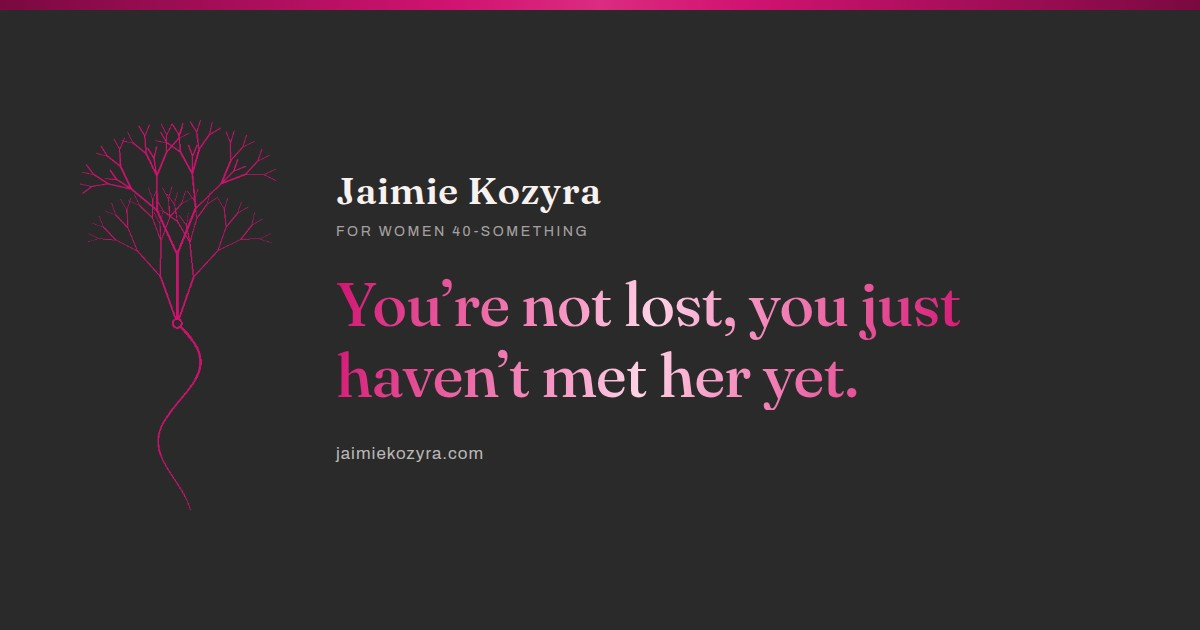
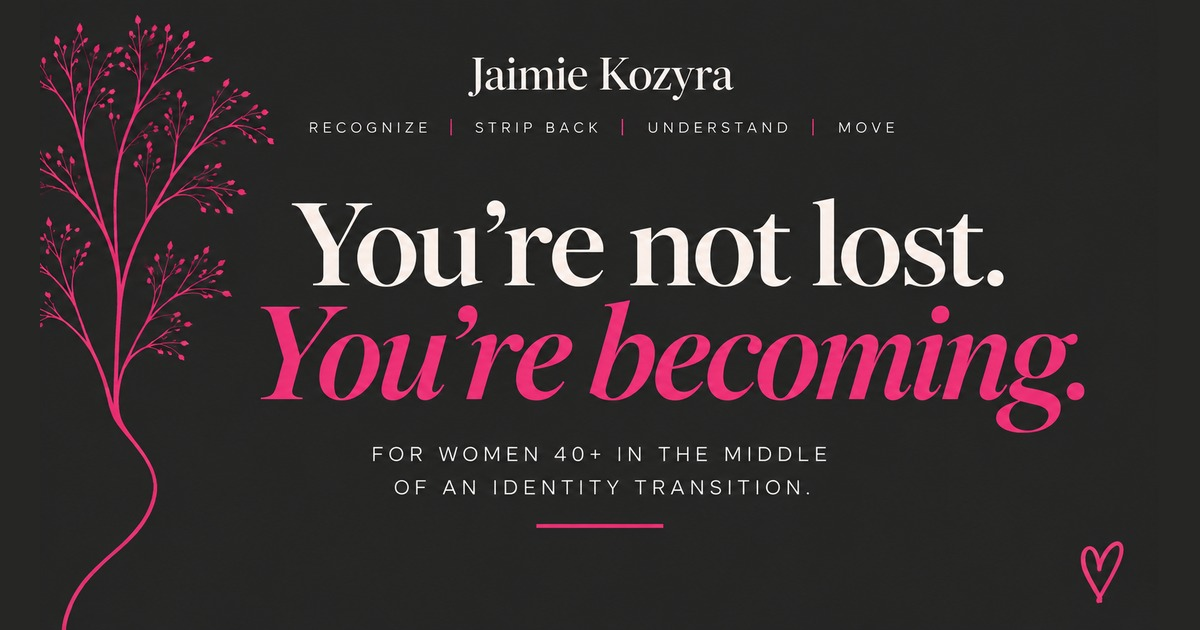
New link preview graphic
Her own artwork, fitted to 1200x630 on matching charcoal so nothing is
cropped. Alt text updated to the new line.

Claude-Session: https://claude.ai/code/session_019H7cMcYYSgfvxCfrsxMTCp

diff --git a/public/404.html b/public/404.html
@@ -14,7 +14,7 @@
 <meta property="og:image" content="https://jaimiekozyra.com/assets/og-card.jpg">
 <meta property="og:image:width" content="1200">
 <meta property="og:image:height" content="630">
-<meta property="og:image:alt" content="Jaimie Kozyra. You are not lost, you just have not met her yet.">
+<meta property="og:image:alt" content="Jaimie Kozyra. You are not lost. You are becoming.">
 <meta name="twitter:card" content="summary_large_image">
 <meta name="theme-color" content="#2A2A2A">
 <link rel="icon" href="assets/favicon-32.png" sizes="32x32">

diff --git a/public/about.html b/public/about.html
@@ -14,7 +14,7 @@
 <meta property="og:image" content="https://jaimiekozyra.com/assets/og-card.jpg">
 <meta property="og:image:width" content="1200">
 <meta property="og:image:height" content="630">
-<meta property="og:image:alt" content="Jaimie Kozyra. You are not lost, you just have not met her yet.">
+<meta property="og:image:alt" content="Jaimie Kozyra. You are not lost. You are becoming.">
 <meta name="twitter:card" content="summary_large_image">
 <meta name="theme-color" content="#2A2A2A">
 <link rel="icon" href="assets/favicon-32.png" sizes="32x32">

diff --git a/public/contact.html b/public/contact.html
@@ -14,7 +14,7 @@
 <meta property="og:image" content="https://jaimiekozyra.com/assets/og-card.jpg">
 <meta property="og:image:width" content="1200">
 <meta property="og:image:height" content="630">
-<meta property="og:image:alt" content="Jaimie Kozyra. You are not lost, you just have not met her yet.">
+<meta property="og:image:alt" content="Jaimie Kozyra. You are not lost. You are becoming.">
 <meta name="twitter:card" content="summary_large_image">
 <meta name="theme-color" content="#2A2A2A">
 <link rel="icon" href="assets/favicon-32.png" sizes="32x32">

diff --git a/public/index.html b/public/index.html
@@ -14,7 +14,7 @@
 <meta property="og:image" content="https://jaimiekozyra.com/assets/og-card.jpg">
 <meta property="og:image:width" content="1200">
 <meta property="og:image:height" content="630">
-<meta property="og:image:alt" content="Jaimie Kozyra. You are not lost, you just have not met her yet.">
+<meta property="og:image:alt" content="Jaimie Kozyra. You are not lost. You are becoming.">
 <meta name="twitter:card" content="summary_large_image">
 <meta name="theme-color" content="#2A2A2A">
 <link rel="icon" href="assets/favicon-32.png" sizes="32x32">

diff --git a/public/narrative-loom.html b/public/narrative-loom.html
@@ -14,7 +14,7 @@
 <meta property="og:image" content="https://jaimiekozyra.com/assets/og-card.jpg">
 <meta property="og:image:width" content="1200">
 <meta property="og:image:height" content="630">
-<meta property="og:image:alt" content="Jaimie Kozyra. You are not lost, you just have not met her yet.">
+<meta property="og:image:alt" content="Jaimie Kozyra. You are not lost. You are becoming.">
 <meta name="twitter:card" content="summary_large_image">
 <meta name="theme-color" content="#2A2A2A">
 <link rel="icon" href="assets/favicon-32.png" sizes="32x32">

diff --git a/public/newsletter.html b/public/newsletter.html
@@ -14,7 +14,7 @@
 <meta property="og:image" content="https://jaimiekozyra.com/assets/og-card.jpg">
 <meta property="og:image:width" content="1200">
 <meta property="og:image:height" content="630">
-<meta property="og:image:alt" content="Jaimie Kozyra. You are not lost, you just have not met her yet.">
+<meta property="og:image:alt" content="Jaimie Kozyra. You are not lost. You are becoming.">
 <meta name="twitter:card" content="summary_large_image">
 <meta name="theme-color" content="#2A2A2A">
 <link rel="icon" href="assets/favicon-32.png" sizes="32x32">

diff --git a/public/pre-work-intensive.html b/public/pre-work-intensive.html
@@ -14,7 +14,7 @@
 <meta property="og:image" content="https://jaimiekozyra.com/assets/og-card.jpg">
 <meta property="og:image:width" content="1200">
 <meta property="og:image:height" content="630">
-<meta property="og:image:alt" content="Jaimie Kozyra. You are not lost, you just have not met her yet.">
+<meta property="og:image:alt" content="Jaimie Kozyra. You are not lost. You are becoming.">
 <meta name="twitter:card" content="summary_large_image">
 <meta name="theme-color" content="#2A2A2A">
 <link rel="icon" href="assets/favicon-32.png" sizes="32x32">

diff --git a/public/privacy.html b/public/privacy.html
@@ -14,7 +14,7 @@
 <meta property="og:image" content="https://jaimiekozyra.com/assets/og-card.jpg">
 <meta property="og:image:width" content="1200">
 <meta property="og:image:height" content="630">
-<meta property="og:image:alt" content="Jaimie Kozyra. You are not lost, you just have not met her yet.">
+<meta property="og:image:alt" content="Jaimie Kozyra. You are not lost. You are becoming.">
 <meta name="twitter:card" content="summary_large_image">
 <meta name="theme-color" content="#2A2A2A">
 <link rel="icon" href="assets/favicon-32.png" sizes="32x32">

diff --git a/public/soul-map.html b/public/soul-map.html
@@ -14,7 +14,7 @@
 <meta property="og:image" content="https://jaimiekozyra.com/assets/og-card.jpg">
 <meta property="og:image:width" content="1200">
 <meta property="og:image:height" content="630">
-<meta property="og:image:alt" content="Jaimie Kozyra. You are not lost, you just have not met her yet.">
+<meta property="og:image:alt" content="Jaimie Kozyra. You are not lost. You are becoming.">
 <meta name="twitter:card" content="summary_large_image">
 <meta name="theme-color" content="#2A2A2A">
 <link rel="icon" href="assets/favicon-32.png" sizes="32x32">

diff --git a/public/terms.html b/public/terms.html
@@ -14,7 +14,7 @@
 <meta property="og:image" content="https://jaimiekozyra.com/assets/og-card.jpg">
 <meta property="og:image:width" content="1200">
 <meta property="og:image:height" content="630">
-<meta property="og:image:alt" content="Jaimie Kozyra. You are not lost, you just have not met her yet.">
+<meta property="og:image:alt" content="Jaimie Kozyra. You are not lost. You are becoming.">
 <meta name="twitter:card" content="summary_large_image">
 <meta name="theme-color" content="#2A2A2A">
 <link rel="icon" href="assets/favicon-32.png" sizes="32x32">

diff --git a/public/work-with-me.html b/public/work-with-me.html
@@ -14,7 +14,7 @@
 <meta property="og:image" content="https://jaimiekozyra.com/assets/og-card.jpg">
 <meta property="og:image:width" content="1200">
 <meta property="og:image:height" content="630">
-<meta property="og:image:alt" content="Jaimie Kozyra. You are not lost, you just have not met her yet.">
+<meta property="og:image:alt" content="Jaimie Kozyra. You are not lost. You are becoming.">
 <meta name="twitter:card" content="summary_large_image">
 <meta name="theme-color" content="#2A2A2A">
 <link rel="icon" href="assets/favicon-32.png" sizes="32x32">

diff --git a/public/you-left-yourself-out.html b/public/you-left-yourself-out.html
@@ -14,7 +14,7 @@
 <meta property="og:image" content="https://jaimiekozyra.com/assets/og-card.jpg">
 <meta property="og:image:width" content="1200">
 <meta property="og:image:height" content="630">
-<meta property="og:image:alt" content="Jaimie Kozyra. You are not lost, you just have not met her yet.">
+<meta property="og:image:alt" content="Jaimie Kozyra. You are not lost. You are becoming.">
 <meta name="twitter:card" content="summary_large_image">
 <meta name="theme-color" content="#2A2A2A">
 <link rel="icon" href="assets/favicon-32.png" sizes="32x32">
